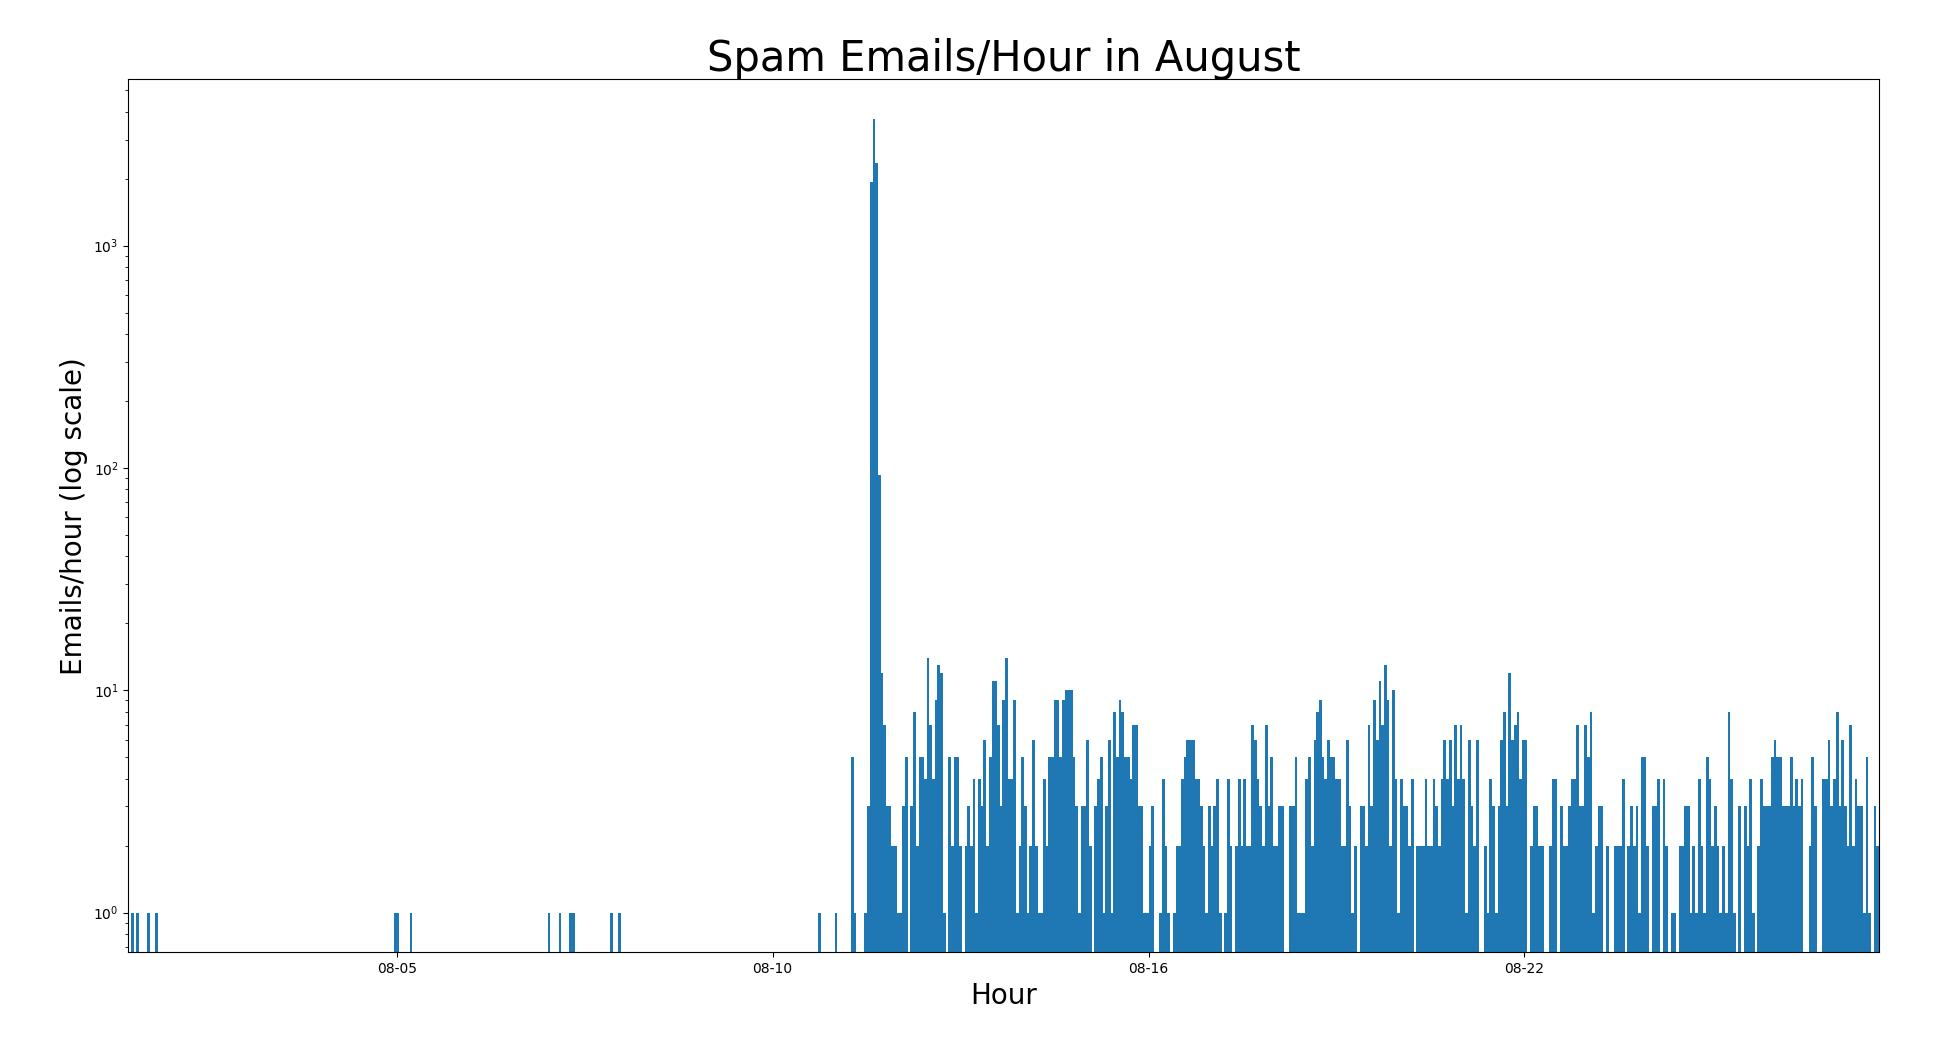
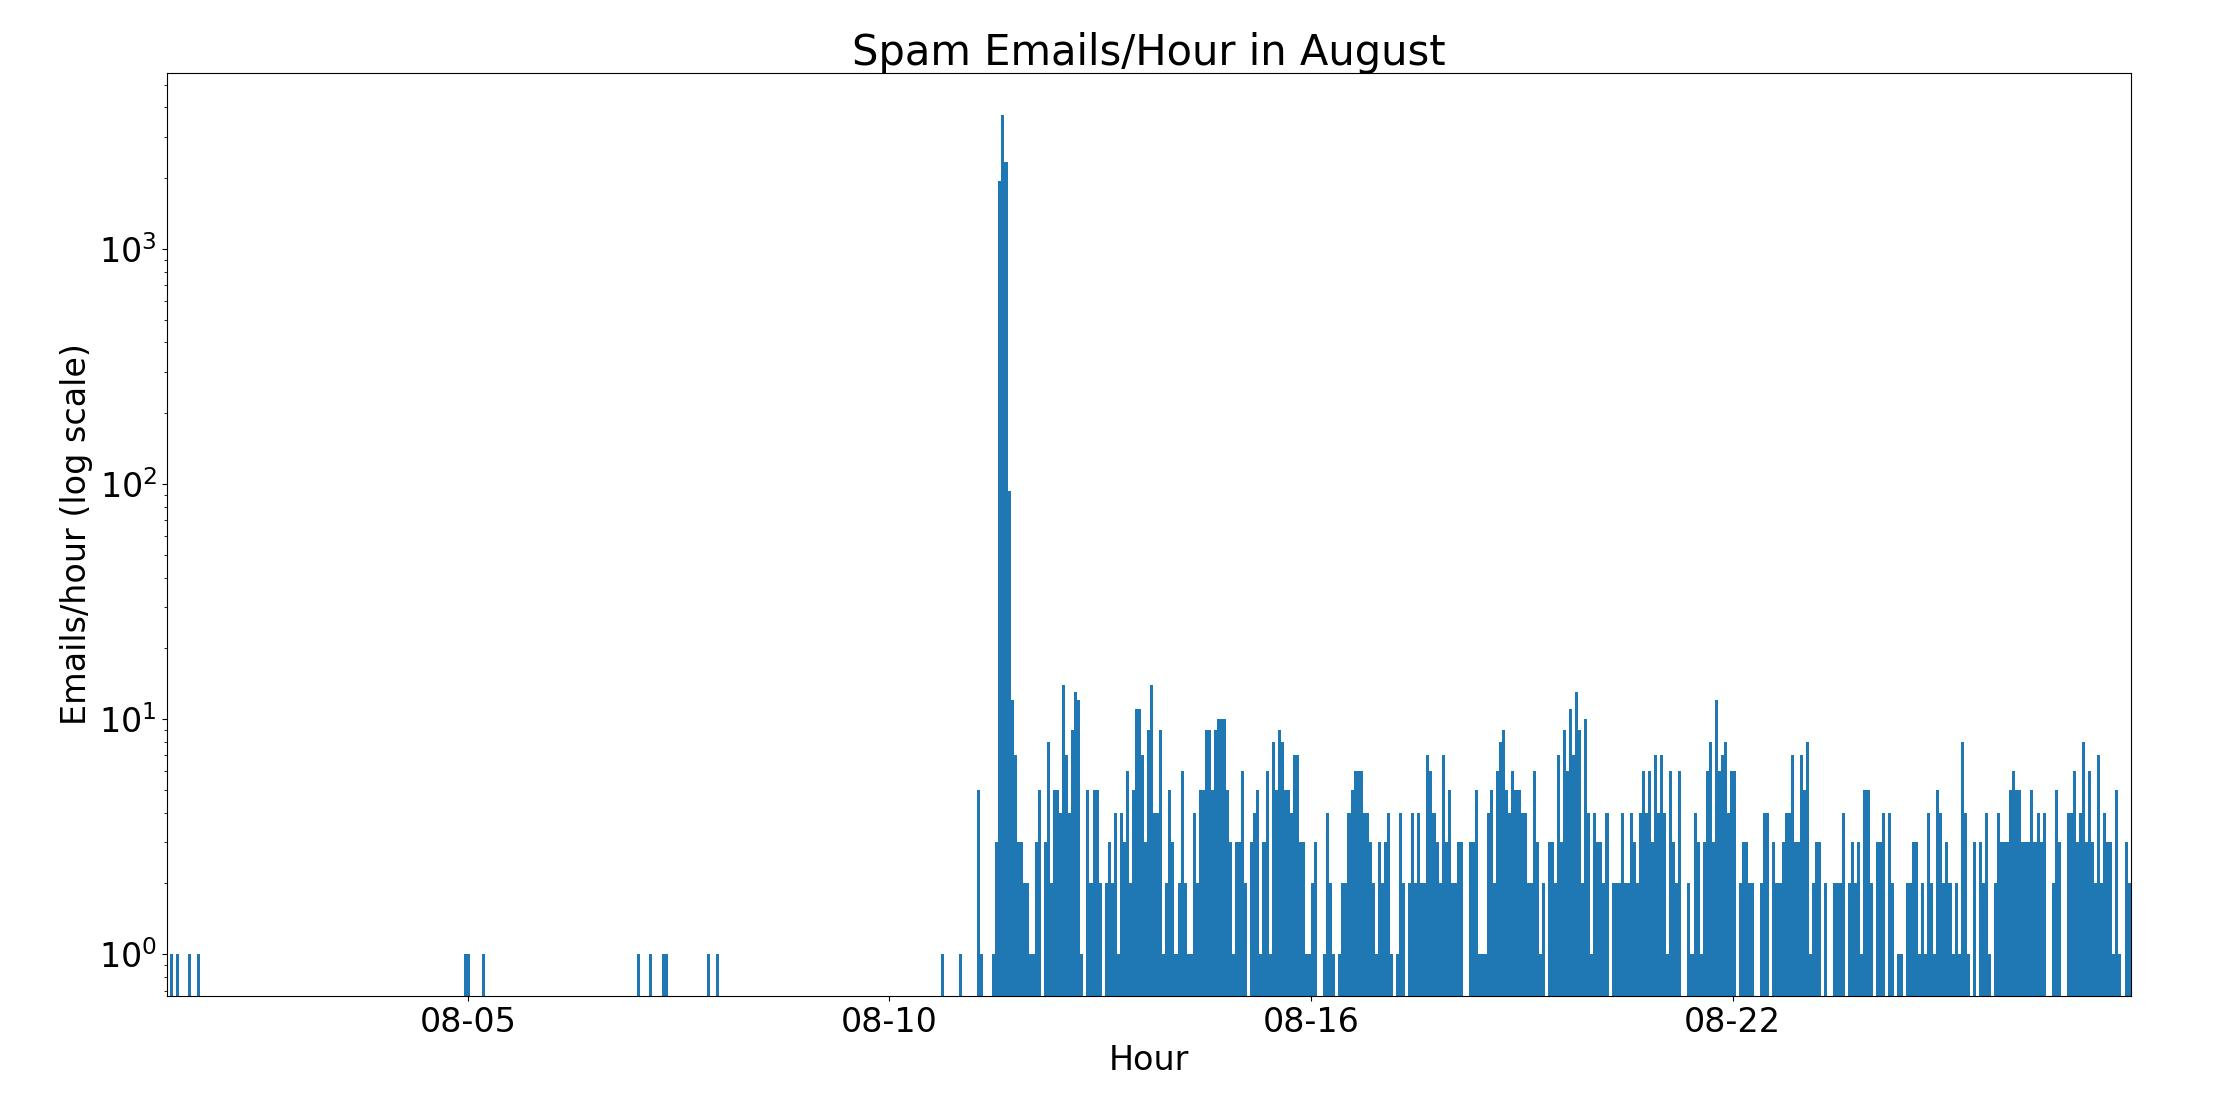
Update image

diff --git a/plot_email_rate.py b/plot_email_rate.py
@@ -28,8 +28,9 @@ plt.margins(x=0)
 plt.gca().xaxis.set_major_formatter(
     mtick.FuncFormatter(lambda ms, _: time.strftime("%m-%d",time.localtime(ms/1000)))
 )
+plt.gca().tick_params(axis = 'both', which = 'major', labelsize = 24)
 
-plt.ylabel('Emails/hour (log scale)', fontsize=20)
-plt.xlabel('Hour', fontsize=20)
+plt.ylabel('Emails/hour (log scale)', fontsize=24)
+plt.xlabel('Hour', fontsize=24)
 plt.title('Spam Emails/Hour in August', fontsize=30)
 plt.show()
